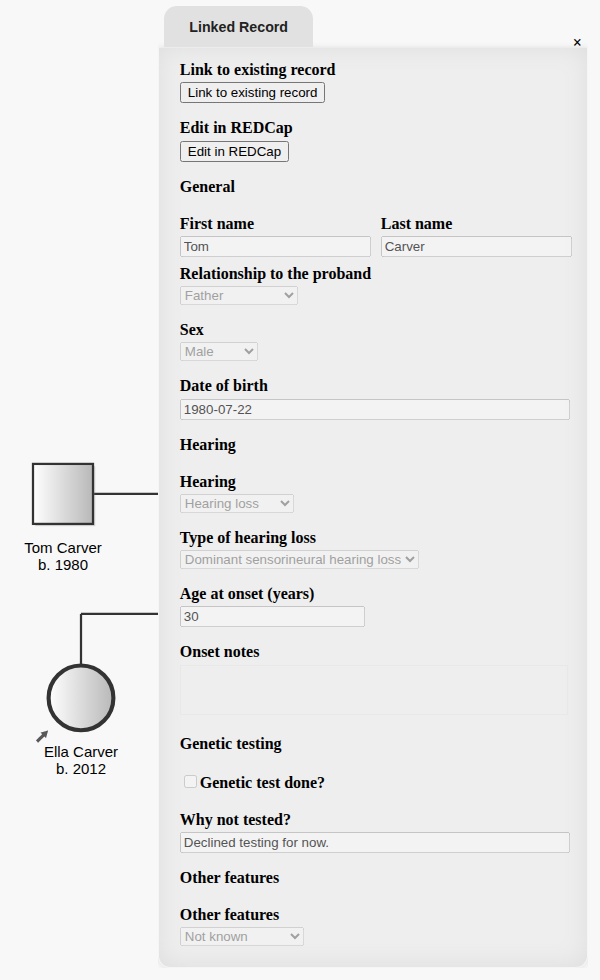
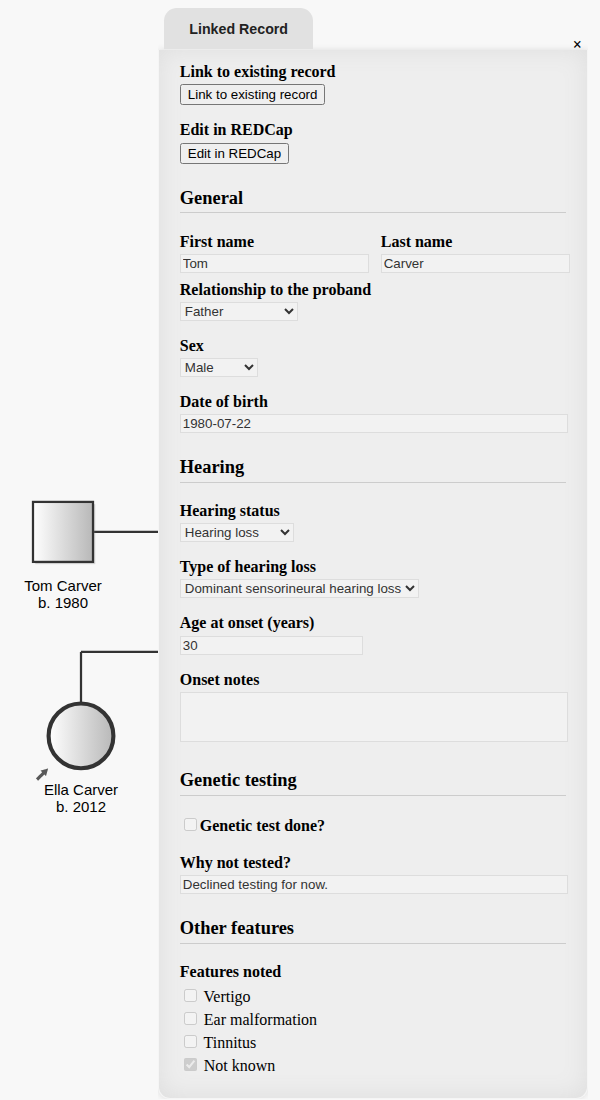
docs: ADA2 notes field relabelled, and node form screenshots for open-pedigree 1.4.14 (#65)
Docs follow-ups from the 1.0.0 play-test (item 2), after open-pedigree
1.4.14 (#64):

- **ADA2 example:** the *Family members* notes field was labelled
"Notes" under a section header also called "Notes", so a linked person's
form showed "Notes" twice. It's now *Notes about this person* (data
dictionary and project XML; nothing references the old label), and the
README names it so.
- **Screenshots refreshed on 1.4.14:** Maya's *Linked Record* tab (ADA2
example - wider, so the whole family and the legend show) and Tom's node
form (form logic example - *Other features* now checkboxes), in the new
read-only styling with section headings set apart. Their captions still
describe them.

🤖 Generated with [Claude Code](https://claude.com/claude-code)

---------

diff --git a/README.md b/README.md
@@ -645,8 +645,8 @@ collects, and isn't any organisation's project.
   *Follow up 24m* hold a *Clinical follow-up* form.
 - *Family members* uses `@PEDIGREE_FIELD` with `mapsTo` for first and last name, sex, date of birth, adopted, vital
   status, date of death, ADA2 status (carrier status: affected / carrier / pre-symptomatic) and tested. Relationship,
-  ADA2 variants, ADA2 enzyme activity and notes are linked but unmapped, and *Contact notes* has no tag, so it never
-  reaches the diagram.
+  ADA2 variants, ADA2 enzyme activity and *Notes about this person* are linked but unmapped, and *Contact notes* has no
+  tag, so it never reaches the diagram.
 - [Relationships in REDCap fields](#relationships-in-redcap-fields): *Family relationships* repeats in the *Enrolment*
   event too, with a row per relationship between linked people, and *Family members* has a read-only *Relationship to
   the participant (from the pedigree)* beside the hand-entered *Relationship*. Both are written by the module when a
@@ -777,8 +777,9 @@ same fields.
 
   *Why not tested?* (`[genetic_test] = '0' or [genetic_test] = ''`) is an OR-chain, which isn't translated, so it's
   always shown.
-- *Other features* is a checkbox field with the option codes `1`, `2`, `A` and `-1`. REDCap renames the last two in
-  exports (`other_features___a`, `other_features____1`); they still come through ticked on the node form.
+- *Features noted* (under *Other features*) is a checkbox field with the option codes `1`, `2`, `A` and `-1`. REDCap
+  renames the last two in exports (`other_features___a`, `other_features____1`); they still come through ticked on the
+  node form.
 - Two families:
   - **Record 1, the Carver family** - drawn, with every person linked. Ella (the proband) has hearing loss and a
     pathogenic result, so everything but the "why?" item is shown, with tinnitus (`A`) ticked; her father Tom wasn't tested, so his test result is hidden and his reason shown, with "Not
